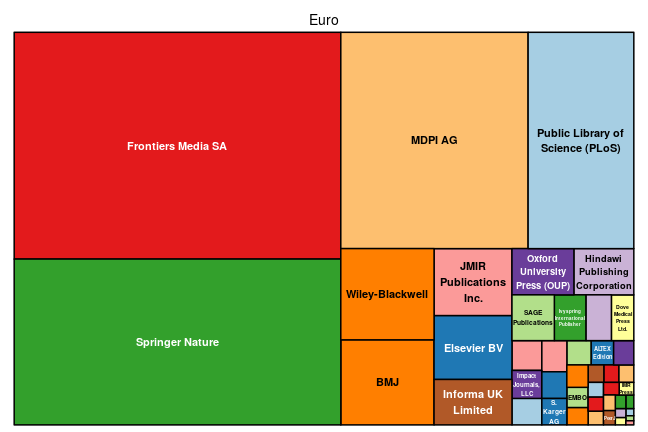
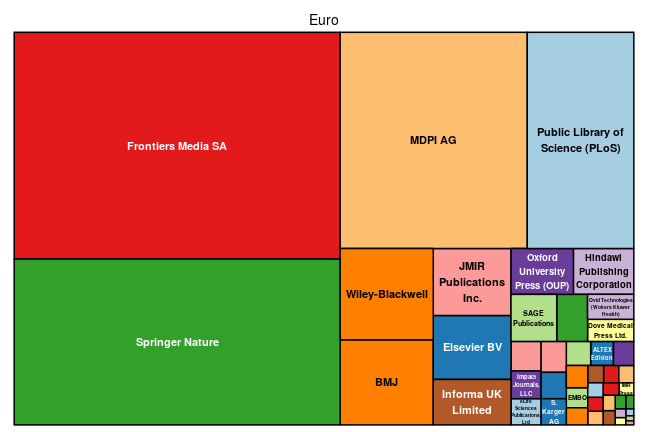
update: charite apc data 2020

diff --git a/_posts/2021-03-19-charite.md b/_posts/2021-03-19-charite.md
@@ -22,7 +22,7 @@ Contact Person is [Jenny Delasalle](mailto:openaccess@charite.de).
 ## Cost data
 
 
-The new data set covers publication fees for 422 articles. Total expenditure amounts to 719,610€ and the average fee is 1,705€.
+The new data set covers publication fees for 424 articles. Total expenditure amounts to 722,790€ and the average fee is 1,705€.
 
 The following table shows the payments the Charité has made to publishers in 2020.
 
@@ -32,14 +32,14 @@ The following table shows the payments the Charité has made to publishers in 20
 |MDPI AG                                                            |      108|            174682|          1617|
 |Frontiers Media SA                                                 |      105|            197724|          1883|
 |Springer Nature                                                    |       76|            138526|          1823|
-|Public Library of Science (PLoS)                                   |       43|             72235|          1680|
+|Public Library of Science (PLoS)                                   |       44|             73825|          1678|
 |BMJ                                                                |       15|             23377|          1558|
 |JMIR Publications Inc.                                             |       13|             23406|          1800|
 |Elsevier BV                                                        |       11|             13987|          1272|
 |Informa UK Limited                                                 |        8|             14076|          1760|
 |Hindawi Publishing Corporation                                     |        6|              6636|          1106|
+|SAGE Publications                                                  |        6|              9379|          1563|
 |Oxford University Press (OUP)                                      |        5|              8515|          1703|
-|SAGE Publications                                                  |        5|              7789|          1558|
 |Ferrata Storti Foundation (Haematologica)                          |        3|              5671|          1890|
 |Ovid Technologies (Wolters Kluwer Health)                          |        3|              4161|          1387|
 |AME Publishing Company                                             |        2|              2794|          1397|
